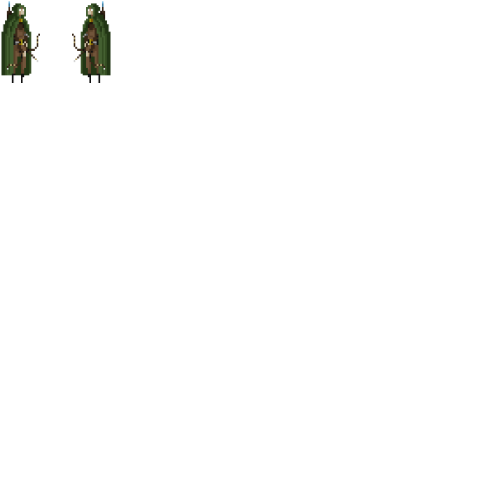
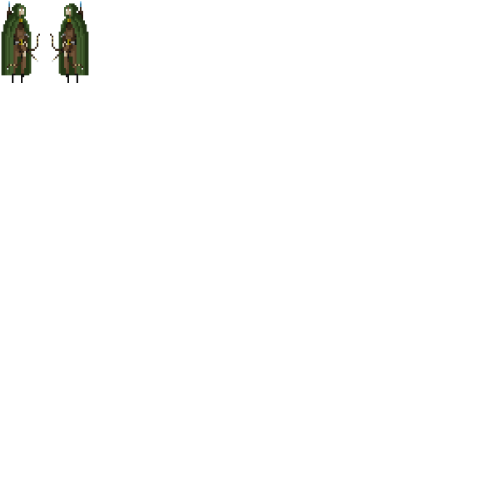
complete new map

Changed region(s): [[0.09, 0.0, 0.24, 0.18]]

diff --git a/src/swing/Game.java b/src/swing/Game.java
@@ -8,48 +8,45 @@ import java.awt.Graphics2D;
 import java.awt.image.BufferStrategy;
 import java.awt.image.BufferedImage;
 
-public class Game extends Canvas implements Runnable{
-	
+public class Game extends Canvas implements Runnable {
+
 	private boolean running = false;
-	
+
 	private Thread thread;
-	
+
 	public static int WIDTH, HEIGHT;
 
 	public Handler handler;
-	
+
 	private BufferedImage level = null;
-	
+
 	public static Texture texture;
-	
+
 	private void init() {
 		WIDTH = getWidth();
 		HEIGHT = getHeight();
-		
+
 		texture = new Texture();
-		
+
 		ImageLoader loader = new ImageLoader();
-		level = loader.loadImage("/level.png");
-	
+		level = loader.loadImage("/level2.png");
+
 		handler = new Handler();
-		
+
 		loadImageLevel(level);
-		
+
 		handler.addObject(new Player1(100, 100, handler, ObjectId.Player1));
 		handler.addObject(new Player2(700, 100, handler, ObjectId.Player2));
 
-		
 		this.addKeyListener(new KeyInput(handler));
 	}
 
-	
 	public void start() {
 		running = true;
 		thread = new Thread(this);
 		thread.start();
 	}
 
-	
 	@Override
 	public void run() {
 		init();
@@ -59,121 +56,120 @@ public class Game extends Canvas implements Runnable{
 		double delta = 0;
 		long timer = System.currentTimeMillis();
 		int updates = 0;
-		while(running){
+		while (running) {
 			long now = System.nanoTime();
 			delta += (now - lastTime) / nanoSecs;
 			lastTime = now;
-			while(delta >= 1){
+			while (delta >= 1) {
 				update();
 				updates++;
 				delta--;
 			}
 			render();
-					
-			if(System.currentTimeMillis() - timer > 1000){
+
+			if (System.currentTimeMillis() - timer > 1000) {
 				timer += 1000;
-//				System.out.println("FPS: " + updates);
+				// System.out.println("FPS: " + updates);
 				updates = 0;
 			}
 		}
-		
+
 	}
-	
-	
-	
+
 	private void update() {
 		handler.update();
 	}
-	
+
 	private void render() {
 		BufferStrategy bs = this.getBufferStrategy();
 		if (bs == null) {
 			this.createBufferStrategy(3);
 			return;
 		}
-	
-		
+
 		Graphics g = bs.getDrawGraphics();
 		Graphics2D g2d = (Graphics2D) g;
 
-		//background color
-		
+		// background color
+
 		g2d.setColor(Color.BLACK);
 		g2d.fillRect(0, 0, getWidth(), getHeight());
 		handler.render(g2d);
-		
+
 		g2d.setColor(Color.gray);
 		g2d.fillRect(5, 5, 200, 25); // player2
 		g2d.fillRect(600, 5, 200, 25); // player1
-		g2d.fillRect(5, 40 ,100, 25);
-		g2d.fillRect(600, 40 ,200, 25);
-		
+		g2d.fillRect(5, 40, 100, 25);
+		g2d.fillRect(600, 40, 200, 25);
+
 		g2d.setColor(Color.green);
-		if (Player1.getHP() > 0) g2d.fillRect(5, 5, Player1.getHP(), 25); // player2
-		if (Player2.getHP() > 0) g2d.fillRect(600, 5, Player2.getHP(), 25); // player1
+		if (Player1.getHP() > 0)
+			g2d.fillRect(5, 5, Player1.getHP(), 25); // player2
+		if (Player2.getHP() > 0)
+			g2d.fillRect(600, 5, Player2.getHP(), 25); // player1
 		g2d.setColor(Color.blue);
 		if (Player1.spellBar < 100)
-		g2d.fillRect(5, 40, Player1.spellBar, 25);
+			g2d.fillRect(5, 40, Player1.spellBar, 25);
 		if (Player2.spellBar < 200)
-		g2d.fillRect(600, 40, Player2.spellBar, 25);
-		
-	
+			g2d.fillRect(600, 40, Player2.spellBar, 25);
+
 		g2d.setColor(Color.white);
 		g2d.drawRect(5, 5, 200, 25); // player2
 		g2d.drawRect(600, 5, 200, 25); // player1
-		
-		Font fnt0 = new Font("arial",Font.BOLD, 15);
+
+		Font fnt0 = new Font("arial", Font.BOLD, 15);
 		g.setFont(fnt0);
-		g2d.drawString("Angle: ", 5 , 100);
-		g2d.drawString("Velocity: ", 5 , 125);
+		g2d.drawString("Angle: ", 5, 100);
+		g2d.drawString("Velocity: ", 5, 125);
 		g2d.drawString(String.format("%.2f", Arrow.angle), 70, 100);
 		g2d.drawString(String.format("%.2f", Arrow.initV), 80, 125);
-		
-		
-		if (Player1.isSpellBarFull()) 
-		g2d.fillRect(5, 40, 100, 25);
-		
-		if (Player2.isSpellBarFull()) 
-		g2d.fillRect(600, 40, 200, 25);
-		
-		
-		
+
+		if (Player1.isSpellBarFull())
+			g2d.fillRect(5, 40, 100, 25);
+
+		if (Player2.isSpellBarFull())
+			g2d.fillRect(600, 40, 200, 25);
+
 		g.dispose();
 		bs.show();
-		
+
 	}
-	
-	private void loadImageLevel(BufferedImage image) { 
+
+	private void loadImageLevel(BufferedImage image) {
 		int w = image.getWidth();
 		int h = image.getHeight();
-		
+
 		System.out.println(w + " x " + h);
-	
-		
+
 		for (int i = 0; i < h; i++) {
 			for (int j = 0; j < w; j++) {
-				//reference https://stackoverflow.com/questions/25761438/understanding-bufferedimage-getrgb-output-values
+				// reference
+				// https://stackoverflow.com/questions/25761438/understanding-bufferedimage-getrgb-output-values
 				int pixel = image.getRGB(i, j);
 				int red = (pixel >> 16) & 0xff;
 				int green = (pixel >> 8) & 0xff;
 				int blue = (pixel) & 0xff;
 				if (red == 255 && green == 255 && blue == 255) {
-					handler.addObject(new Block(i*32 , j*32 ,0,ObjectId.Block));
+					handler.addObject(new Block(i * 32, j * 32, 0, ObjectId.Block));
 				}
 				if (red == 255 && green == 106 && blue == 0) {
-					handler.addObject(new Block(i*32, j*32,1,ObjectId.Block1));
+					handler.addObject(new Block(i * 32, j * 32, 1, ObjectId.Block1));
+				}
+				if (red == 64 && green == 64 && blue == 64) {
+					handler.addObject(new Block(i * 32, j * 32, 3, ObjectId.Block2));
+				}
+				if (red == 255 && green == 0 && blue == 0) {
+					handler.addObject(new Block(i * 32, j * 32, 2, ObjectId.BlockLava));
 				}
 				
-				
 			}
-			
+
 		}
-		
+
 	}
-	
+
 	public static Texture getInstance() {
 		return texture;
 	}
-	
 
 }

diff --git a/src/swing/Texture.java b/src/swing/Texture.java
@@ -14,7 +14,7 @@ public class Texture {
 	private BufferedImage sword = null;
 	private BufferedImage arrow_sheet = null;
 	
-	public BufferedImage[] blocks = new BufferedImage[3];
+	public BufferedImage[] blocks = new BufferedImage[4];
 	public BufferedImage[] bullet = new BufferedImage[2];
 	public BufferedImage[] swords = new BufferedImage[4];
 	public BufferedImage[] wizard = new BufferedImage[2];
@@ -45,12 +45,13 @@ public class Texture {
 		blocks[0] = this.grabImage(3, 1, 32, 32, block_sheet);
 		blocks[1] = this.grabImage(4, 1, 32, 32, block_sheet);
 		blocks[2] = this.grabImage(16, 16, 32, 32, block_sheet);
+		blocks[3] = this.grabImage(2, 2, 32, 32, block_sheet);
 		wizard[0] = this.grabImage(1, 1, 55, 120, wizard_sheet);
 		wizard[1] = this.grabImage(2, 1, 55, 120, wizard_sheet);
 		assassin[0] = this.grabImage(1, 1, 59, 120, assassin_sheet);
 		assassin[1] = this.grabImage(2, 1, 59, 120, assassin_sheet);
-		bowMaster[0] = this.grabImage(1, 1, 59, 120, bow_master_sheet);
-		bowMaster[1] = this.grabImage(2, 1, 59, 120, bow_master_sheet);
+		bowMaster[0] = this.grabImage(1, 1, 50, 120, bow_master_sheet);
+		bowMaster[1] = this.grabImage(2, 1, 50, 120, bow_master_sheet);
 		bullet[0] = this.grabImage(1, 1, 16, 16, fireball);
 		bullet[1] = this.grabImage(2, 1, 16, 16, fireball);
 		swords[0] = this.grabImage(1, 1, 64, 64, sword);

diff --git a/src/swing/Player1.java b/src/swing/Player1.java
@@ -107,7 +107,7 @@ public class Player1 extends GameObject {
 
 			
 
-			if (tempObject.getId() == ObjectId.Block || tempObject.getId() == ObjectId.Block1) {
+			if (tempObject.getId() == ObjectId.Block || tempObject.getId() == ObjectId.Block1 || tempObject.getId() == ObjectId.Block2) {
 
 				if (getBounds().intersects((Rectangle2D) tempObject.getBounds())) {
 					y = tempObject.getY() - (height);
@@ -132,6 +132,17 @@ public class Player1 extends GameObject {
 				}
 
 			}
+			
+			if (tempObject.getId() == ObjectId.BlockLava) {
+
+				if (getBounds().intersects((Rectangle2D) tempObject.getBounds())) {
+					player1HP = 0;
+				} 
+
+				
+
+			}
+
 
 		}
 	}
@@ -145,11 +156,11 @@ public class Player1 extends GameObject {
 //			g.drawImage(texture.wizard[1], (int) x, (int) y, 50, 100, null);
 		
 		if (KeyInput.checkFacing1 == -1) {
-			g.drawImage(texture.bowMaster[0], (int) x, (int) y, 60, 90, null);
+			g.drawImage(texture.bowMaster[0], (int) x, (int) y, 50, 90, null);
 			
 
 		} else {
-			g.drawImage(texture.bowMaster[1], (int) x, (int) y, 60, 90, null);
+			g.drawImage(texture.bowMaster[1], (int) x, (int) y, 50, 90, null);
 			
 
 		}

diff --git a/src/swing/Player2.java b/src/swing/Player2.java
@@ -92,7 +92,7 @@ public class Player2 extends GameObject {
 				}
 			}
 
-			if (tempObject.getId() == ObjectId.Block) {
+			if (tempObject.getId() == ObjectId.Block || tempObject.getId() == ObjectId.Block1 || tempObject.getId() == ObjectId.Block2) {
 
 				if (getBounds().intersects((Rectangle2D) tempObject.getBounds())) {
 					y = tempObject.getY() - (height);
@@ -116,6 +116,16 @@ public class Player2 extends GameObject {
 					x = tempObject.getX() + 35;
 
 				}
+
+			}
+			
+			if (tempObject.getId() == ObjectId.BlockLava) {
+
+				if (getBounds().intersects((Rectangle2D) tempObject.getBounds())) {
+					player2HP = 0;
+				} 
+
+				
 
 			}
 

diff --git a/src/swing/Block.java b/src/swing/Block.java
@@ -28,6 +28,8 @@ public class Block extends GameObject{
 	public void render(Graphics g) {
 		if (type == 0) g.drawImage(texture.blocks[0], (int)x, (int)y, null);
 		if (type == 1) g.drawImage(texture.blocks[1], (int)x, (int)y, null);
+		if (type == 2) g.drawImage(texture.blocks[2], (int)x, (int)y, null);
+		if (type == 3) g.drawImage(texture.blocks[3], (int)x, (int)y, null);
 	
 	}
 

diff --git a/src/swing/ObjectId.java b/src/swing/ObjectId.java
@@ -6,6 +6,7 @@ public enum ObjectId {
 	Player2(),
 	Block(),
 	Block1(),
+	Block2(),
 	BlockLava(),
 	Bullet(),
 	Arrow(),
